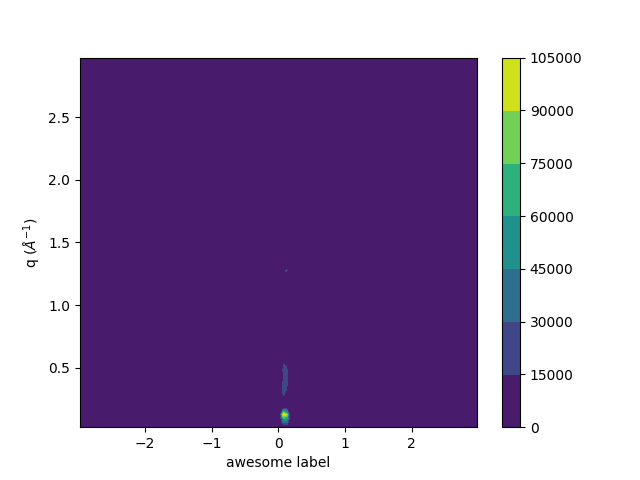
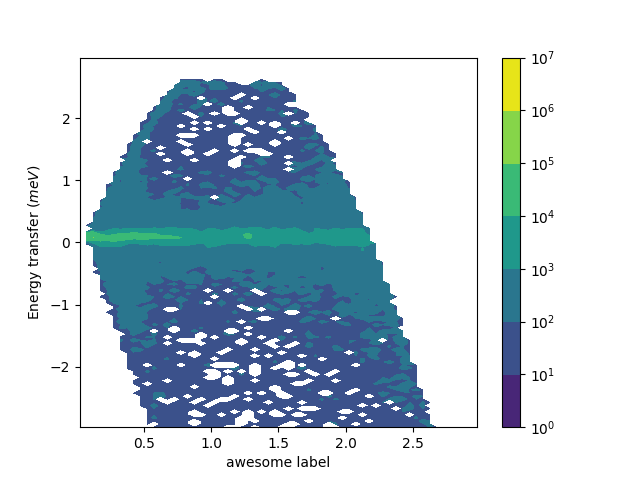
Add triangular mesh functions and improve 2d plots

diff --git a/Framework/PythonInterface/mantid/plots/_functions.py b/Framework/PythonInterface/mantid/plots/_functions.py
@@ -293,3 +293,83 @@ def pcolormesh(axes, workspace, *args, **kwargs):
     _setLabels2D(axes, workspace)
 
     return axes.pcolormesh(x, y, z, *args, **kwargs)
+
+def tripcolor(axes, workspace, *args, **kwargs):
+    '''
+    To be used with non-uniform grids. Currently this only works with workspaces
+    that have a constant number of bins between spectra.
+
+    :param axes:      :class:`matplotlib.axes.Axes` object that will do the plotting
+    :param workspace: :class:`mantid.api.MatrixWorkspace` to extract the data from
+    :param distribution: ``None`` (default) asks the workspace. ``False`` means
+                         divide by bin width. ``True`` means do not divide by bin width.
+                         Applies only when the the workspace is a histogram.
+
+    See :meth:`matplotlib.axes.Axes.tripcolor` for more information.
+    '''
+    (distribution, kwargs) = _getDistribution(workspace, kwargs)
+    (x,y,z) = _getContour(workspace, distribution)
+    _setLabels2D(axes, workspace)
+
+    return axes.tripcolor(x.ravel(), y.ravel(), z.ravel(), *args, **kwargs)
+
+def triplot(axes, workspace, *args, **kwargs):
+    '''
+    Essentially the same as :meth:`mantid.plots.pcolor`, but works
+    for non-uniform grids. Currently this only works with workspaces
+    that have a constant number of bins between spectra.
+
+    :param axes:      :class:`matplotlib.axes.Axes` object that will do the plotting
+    :param workspace: :class:`mantid.api.MatrixWorkspace` to extract the data from
+    :param distribution: ``None`` (default) asks the workspace. ``False`` means
+                         divide by bin width. ``True`` means do not divide by bin width.
+                         Applies only when the the workspace is a histogram.
+
+    See :meth:`matplotlib.axes.Axes.triplot` for more information.
+    '''
+    (distribution, kwargs) = _getDistribution(workspace, kwargs)
+    (x,y,z) = _getContour(workspace, distribution)
+    _setLabels2D(axes, workspace)
+
+    return axes.triplot(x.ravel(), y.ravel(), z.ravel(), *args, **kwargs)
+
+def tricontour(axes, workspace, *args, **kwargs):
+    '''
+    Essentially the same as :meth:`mantid.plots.contour`, but works
+    for non-uniform grids. Currently this only works with workspaces
+    that have a constant number of bins between spectra.
+
+    :param axes:      :class:`matplotlib.axes.Axes` object that will do the plotting
+    :param workspace: :class:`mantid.api.MatrixWorkspace` to extract the data from
+    :param distribution: ``None`` (default) asks the workspace. ``False`` means
+                         divide by bin width. ``True`` means do not divide by bin width.
+                         Applies only when the the workspace is a histogram.
+
+    See :meth:`matplotlib.axes.Axes.tricontour` for more information.
+    '''
+    (distribution, kwargs) = _getDistribution(workspace, kwargs)
+    (x,y,z) = _getContour(workspace, distribution)
+    _setLabels2D(axes, workspace)
+
+    return axes.tricontour(x.ravel(), y.ravel(), z.ravel(), *args, **kwargs)
+
+
+def tricontourf(axes, workspace, *args, **kwargs):
+    '''
+    Essentially the same as :meth:`mantid.plots.contourf`, but works
+    for non-uniform grids. Currently this only works with workspaces
+    that have a constant number of bins between spectra.
+
+    :param axes:      :class:`matplotlib.axes.Axes` object that will do the plotting
+    :param workspace: :class:`mantid.api.MatrixWorkspace` to extract the data from
+    :param distribution: ``None`` (default) asks the workspace. ``False`` means
+                         divide by bin width. ``True`` means do not divide by bin width.
+                         Applies only when the the workspace is a histogram.
+
+    See :meth:`matplotlib.axes.Axes.tricontourf` for more information.
+    '''
+    (distribution, kwargs) = _getDistribution(workspace, kwargs)
+    (x,y,z) = _getContour(workspace, distribution)
+    _setLabels2D(axes, workspace)
+
+    return axes.tricontourf(x.ravel(), y.ravel(), z.ravel(), *args, **kwargs)

diff --git a/docs/source/api/python/mantid/plots/index.rst b/docs/source/api/python/mantid/plots/index.rst
@@ -19,9 +19,10 @@ not all are used in all places.
 
 .. code-block:: python
 
-   from mantid.simpleapi import mtd, LoadEventNexus, Rebin, ConvertUnits, SofQW
+   from mantid.simpleapi import mtd, Load, LoadEventNexus, Rebin, ConvertUnits, SofQW, Transpose
    from mantid import plots
    import matplotlib.pyplot as plt
+   from matplotlib.colors import LogNorm
 
 First, load some diffraction data and see what the automatic axes will
 be using :func:`~mantid.plots.getAxesLabels`.
@@ -72,9 +73,10 @@ values.
    ConvertUnits(InputWorkspace='CNCS_7860_event', OutputWorkspace='CNCS_7860_event', Target='DeltaE', EMode='Direct', EFixed=3)
    Rebin(InputWorkspace='CNCS_7860_event', OutputWorkspace='CNCS_7860_event', Params='-3,0.05,3')
    SofQW(InputWorkspace='CNCS_7860_event', OutputWorkspace='CNCS_7860_sqw', QAxisBinning='0,0.05,3', EMode='Direct', EFixed=3)
+   Transpose(InputWorkspace='CNCS_7860_sqw',  OutputWorkspace='CNCS_7860_sqw')
 
    fig, ax = plt.subplots()
-   c = plots.contourf(ax, mtd['CNCS_7860_sqw'])
+   c = plots.contourf(ax, mtd['CNCS_7860_sqw'], norm=LogNorm())
    ax.set_xlabel('awesome label')
    fig.colorbar(c)
    fig.show()
@@ -88,7 +90,7 @@ Similarly, showing the actual values with :func:`~mantid.plots.pcolormesh`
 .. code-block:: python
 
    fig, ax = plt.subplots()
-   c = plots.pcolormesh(ax, mtd['CNCS_7860_sqw'])
+   c = plots.pcolormesh(ax, mtd['CNCS_7860_sqw'], norm=LogNorm())
    fig.colorbar(c)
    fig.show()
 
@@ -96,9 +98,39 @@ Similarly, showing the actual values with :func:`~mantid.plots.pcolormesh`
    :align: center
    :figwidth: image
 
+Types of functions
+==================
+
+**Informational**
+
+* :func:`~mantid.plots.getAxesLabels`
+
+**1D Plotting**
+
+* :func:`~mantid.plots.plot` - Plot lines and/or markers
+* :func:`~mantid.plots.errorbar` - Plot valuse with errorbars
+* :func:`~mantid.plots.scatter` - Make a scatter plot
+
+**2D Plotting - uniform grid**
+
+* :func:`~mantid.plots.contour` - Draw contours at specified levels
+* :func:`~mantid.plots.contourf` - Draw contours at calculated levels
+* :func:`~mantid.plots.pcolor` - Draw a pseudocolor plot of a 2-D array
+* :func:`~mantid.plots.pcolorfast` - Draw a pseudocolor plot of a 2-D array
+* :func:`~mantid.plots.pcolormesh` - Draw a quadrilateral mesh
+
+**2D Plotting - nonuniform grid**
+
+* :func:`~mantid.plots.tripcolor` - Draw a pseudocolor plot of an unstructured triangular grid
+* :func:`~mantid.plots.triplot` - Draw a unstructured triangular grid as lines and/or markers
+* :func:`~mantid.plots.tricontour` - Draw contours at specified levels on an unstructured triangular grid
+* :func:`~mantid.plots.tricontourf` - Draw contours at calculated levels on an unstructured triangular grid
+
+
 Available Functions
 ===================
 
 .. automodule:: mantid.plots
    :members: getAxesLabels, plot, errorbar, scatter, contour,
-             contourf, pcolor, pcolorfast, pcolormesh
+             contourf, pcolor, pcolorfast, pcolormesh, tripcolor,
+             triplot, tricontour, tricontourf
